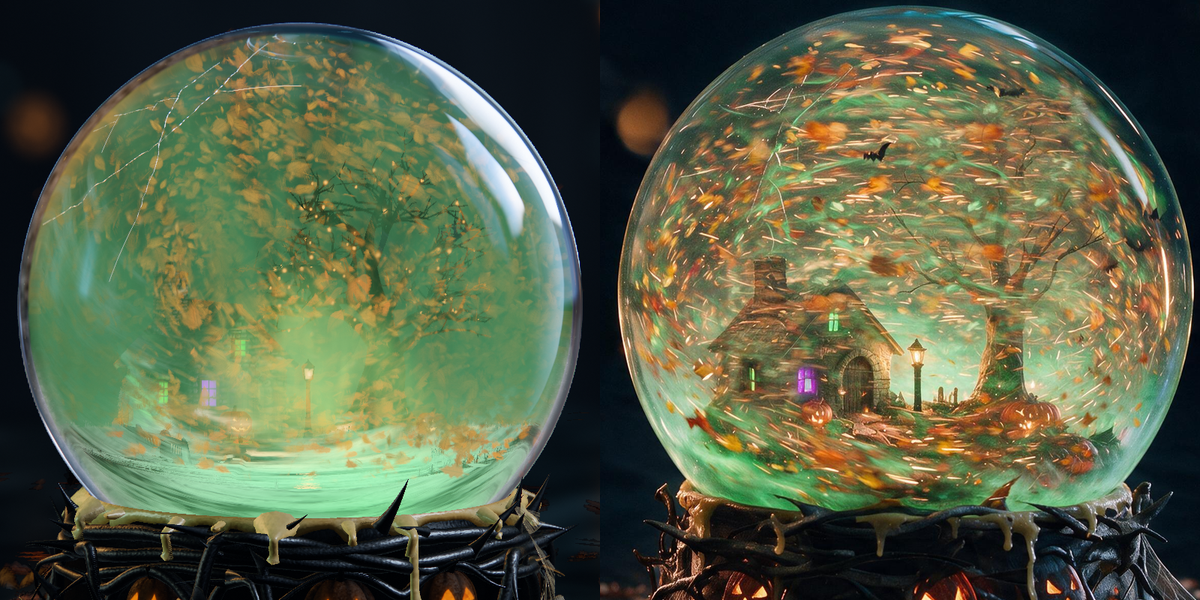
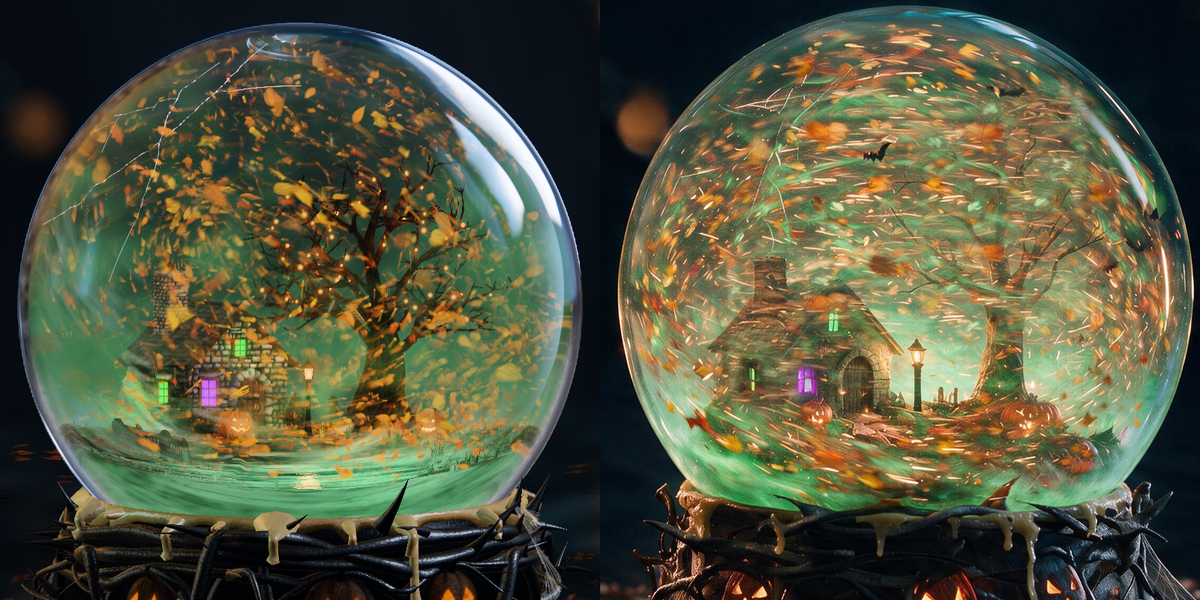
Looks: last pairs of the three seasons, REPORT.md and HANDOVER.md

Changed region(s): [[0.0, 0.06, 0.4933, 1.0], [0.0, 0.87, 0.1233, 1.0], [0.1542, 0.93, 0.2467, 1.0]]

diff --git a/HANDOVER.md b/HANDOVER.md
@@ -1,0 +1,118 @@
+# Handover: the seven particle kinds of spring, summer and fall (`kinds_builder`, Phase 4)
+
+Written for someone who has never seen this work. Branch `agent/p4-kinds`; looks branch `agent/p4-kinds-looks`.
+
+## What this part is
+
+Seven particle kinds drawn in the particle shader: `petal`, `mote` (spring), `seed`, `firefly`, `mote` (summer), `leaf`, `ember`, `bat`, `mote` (fall). Parts in the register: `particle-petal`, `particle-mote`, `particle-firefly`, `particle-seed`, `particle-leaf`, `particle-ember`, `particle-bat`. All seven are real (`real: true` in `LOOKS`); there is no stand-in and no fallback (no crossed cards with a generated picture were needed).
+
+There is no table and no sheet: every shape is worked out in the shader. So there is **no `npm run make -- kinds` target** and no `assets-src/kinds/`. Nothing of mine has to be made before `npm run texpack && npm run build`.
+
+## My files
+
+- `src/particles/draw/cards.ts` (new): all GLSL of the seven kinds. Four strings: `CARD_VERT_PARS`, `CARD_VERT`, `CARD_FRAG_PARS` (holds `cardMain`).
+- `src/particles/draw/looks.ts`: `SHAPE` (petal 3, fleck 4, leaf 5, seed 6, light 7, spark 8, bat 9), the seven rows of `LOOKS`, and the `CARD` constants.
+- `src/particles/draw/shader.ts`: five small hooks only: `vec4 clipC = clip;`, `vec3 base0 = base;`, `${CARD_VERT}` before the last `gl_Position` line, `${CARD_VERT_PARS}`, `${CARD_FRAG_PARS}`, and in the fragment main `if (look.x > 2.5) { cardMain(...); return; }`. Winter's own expressions are not touched.
+- `src/particles/draw/points.ts`: one uniform, `uKindWay[kind] = (renew, floats, settles ? 1 : 0, 0)` from `BEHAVIOUR`.
+- `src/particles/engine/engine.ts`: one change (see "Winter").
+
+Not mine: the rows of `BEHAVIOUR` in `src/particles/engine/kinds.ts` and the colours in `src/seasons/<season>/veil.ts` belong to `spring_air`, `summer_air`, `fall_air`. Counts are in the config.
+
+## How a kind is drawn
+
+Everything for shapes above 2.5 happens in one block at the end of the vertex stage (`CARD_VERT`), which writes every output again, and in `cardMain` in the fragment stage. Flakes and glitter never enter either.
+
+- A card has three axes (along U, across V, out of the sheet N), turned by a yaw from the particle's hash and rocked by its phase `aData.w`. Only whole multiples of the phase are used, because the engine wraps it at 2 pi. Lying (`aState` 1 to 2), the rocking goes to a small tilt (`lieTilt`).
+- The fragment stage solves the pixel back onto the card (`cardSolve`, two steps for the bend), reads an outline with an analytic edge (`cardEdge`), and blurs along the path through the shutter with four taps plus a sharp head (`CARD.head`).
+- petal: notched outline, cupped (`petalCup`), pale to white along its length, light let through by `flash`.
+- mote (fleck): a small lobed speck, drawn in classes of visibility (`fleckKeep`, `fleckSkew`): few bright, most faint.
+- leaf: lobed outline with a stem, midrib and side veins, curled (`leafCurl`), spins about its midrib; orange to rust by a hash over the season's colour.
+- seed: not a card but lines: stem, grain, three rings of hairs (`CARD.hair.ringA/B/C` = count, opening angle, length), 34 lines.
+- firefly (light) and ember (spark): `cardGlow`, a core and halos as gaussians along the path, added light. Ember colour runs hot to the season's colour to dark red by its life (`phase / 2 pi`); firefly blinks by its phase.
+- bat: a facing card, head up, leaning the way it goes (`batLean`, `batBank`), scalloped wings that beat by shifting the outline with the phase (`batFlap`), a lighter rim (`batRim`).
+
+## The classes (the one idea a successor must know)
+
+Config counts are large (24000 petals, 16000 leaves, 9000 seeds). Drawn all whole they wall the storm and carpet the ground. So for kinds that settle and stay (petal, leaf, seed):
+
+- **whole**: the particle is in the engine's `renew` or `floats` class. The shader repeats the engine's own test: `hash2(i, 191 + kindIndex) < max(renew, floats)` (`cardHash2` is a GLSL copy of `hash2` in `src/core/rng.ts`). Plus a small chosen share that lies for good: `CARD.chosen` = [petal 0.004, others 0.012].
+- **storm share**: `CARD.dabShare` = [petal 0.2, leaf 0.3, seed 0.6] of the rest are small (`dabSize` 0.36) and seen only while the storm blows; they are gone once down. For seeds these draw as fine streaks only.
+- the rest are not drawn.
+
+So the number afloat at rest is set by the row (`renew`, `renewMmS`, `floats`, `dwellSeconds`), not by me. If an air builder changes `renew`, the picture follows with no change here.
+
+## Winter
+
+Winter's rest and landed stills (`npm run still -- --season winter --state rest|landed --camera hero --tier draft --format hd --force`) were compared byte for byte with stills taken before my first change, after every push: identical every time.
+
+One real finding: `engine.ts` took one number, the slowest stir that lifts anything, as the lowest `liftMmS[0]` of every kind of every season. When summer's seed row went from 18 to 10, winter's rest still changed (3787 pixels). Now it is per season (`MIN_LIFT_IN`), from that season's own kinds, both seasons' during a swap, capped at `LIFT_FLOOR = 18`. The cap is there because winter's own lowest is 40 and it has always run with 18; without the cap winter would change.
+
+## Things that bite
+
+- A GLSL error breaks the particle shader silently: no particles at all. Look at a still after every shader edit.
+- Stills need `npm run texpack && npm run build` first; `dist/` must match the source or the still tool stops.
+- Never run a still while vitest's heaviest tests run if you time things; the result is still the same bytes, only slower.
+- `main` now carries built assets of all seasons; before a merge run `git checkout -- assets-full public/assets` and `git clean -fdq assets-full public/assets`.
+- To see particles on the air builders' newest rows before they reach `main`, lay their `kinds.ts` rows and `veil.ts` over the tree, look, and `git checkout` them again before committing.
+
+## Constants a successor should know (`CARD` in `src/particles/draw/looks.ts`)
+
+| Constant | Value | What it does |
+|---|---|---|
+| `LOOKS.<kind>.size` | petal 1, mote 1.2, leaf 1.35, seed 3.6, firefly 1, ember 1.3, bat 1.15 | Drawn radius as a multiple of the row's `sizeMm`. Seed 3.6 is agreed with `summer_air` (its row is `[2.5, 5] / 3.6`): do not change one without the other |
+| `chosen` | [0.004, 0.012] | Share that lies for good: petal, others. `spring_air` asked for the low petal number so the pond's mirror shows |
+| `dabShare` | [0.2, 0.12, 0.6] | Storm share of the rest: petal, leaf, seed |
+| `dabSize`, `stormSize` | 0.36, [0.45, 0.45] | Size of a storm-share card; size of a whole petal and leaf while the storm blows |
+| `head` | 0.85 | How sharp a moving card is at the head of its trail |
+| `fog`, `batFog` | 0.3, 0.08 | How much of the season's veil lies over a card in the air, over a bat |
+| `leafHue` | 0.15 | How much of the light's colour a leaf takes (low, so it stays orange in fall's green light) |
+| `litMost` | 1.25 | Cap on the light a card takes from the grid |
+| `fleckKeep`, `fleckSkew`, `fleckStorm` | [0.01, 0.5], 8, 3 | Motes: most are faint, more show in the storm |
+| `sparkKeep`, `sparkSkew`, `spark.gain` | [0.02, 1], 4, 1 | Embers: tuned to `fall_air`'s row (`sizeMm [0.12, 0.7]`, skew 4, glow 1.3). With a brighter row they become a white cloud over the tree; then lower `gain` |
+| `glow` | core 0.34, halo 1.5, wide 4.5, shares 0.1 and 0.01 | Firefly; tuned to `summer_air`'s row (`sizeMm [0.22, 0.5]`, glow 3) |
+| `hair` | 34 hairs, `wide` 0.011, `runStretch` 2, `runSeen` 1.6 | Seed head; the `run*` numbers are the storm streaks |
+| `batLean`, `batBank`, `batFlap`, `batRim` | 0.5, 0.3, 0.45, 1.5 | Bat. `batRim` 0.6 made them vanish on the dark air at rest; 1.5 shows them but slate, not black |
+
+## What is still wrong, worst first (pictures are on the looks branch)
+
+0. **Embers against the wrong row** (`fall-rest-hero-pair.png`, rendered at my last commit on `main`'s rows as of 192ccf3): a pale glowing cloud over the tree. `main` then still had `fall_air`'s older ember row (glow 3.2, `sizeMm [0.2, 1.0]`, skew 3); my numbers (`spark.gain` 1, `LOOKS.ember.size` 1.3, `sparkKeep [0.02, 1]`, `sparkSkew` 4) are tuned to its newer row at `agent/p4-fall_air` 8e4829f (glow 1.3, `sizeMm [0.12, 0.7]`, skew 4), with which I saw a scatter of orange sparks round the tree and no cloud. First thing to do: render fall at rest on the current `main`; if the cloud is there, check which ember row `main` has, and if the brighter one stays, set `spark.gain` to about 0.4 and `sparkSkew` to 9.
+1. **Fall storm** (`fall-landed-hero-pair.png`): leaves are soft orange shapes; the approved has many long thin bright streaks and red leaves among the orange, and three crisp black bats. Ours has no thin streak class for leaves (seeds have one: copy `runLong` in `cardSeed` for the leaf's storm share) and the bats do not show in the storm.
+2. **Bats at rest** (`fall-rest-hero-pair.png`): they face the picture and beat, but read slate and translucent, and sit in one clump under the cap where the sky is dark. The approved has three crisp black ones lower, against the lit haze. Their place is the row's (`reachMm`, height in the engine's `nest()`); their translucency is the lens blur on a small card near the glass (`amp` in `cardCover`): try a floor on `amp` for the bat.
+3. **Summer storm** (`summer-landed-hero-pair.png`): streaks are there through the globe but the whole seed stars are larger and flatter than the approved's, and the fireflies are lost in the storm.
+4. **Summer rest** (`summer-rest-hero-pair.png`): fewer seeds than the approved, all of one brightness; fireflies smaller than the approved's; no large soft ones near the glass (no kind has a near, out-of-focus class like winter's bokeh flakes).
+5. **Spring storm** (`spring-landed-hero-pair.png`): close in kind; petals still a little larger and more uniform than the approved's fine dabs, and no fine white streak lines.
+6. **Spring rest** (`spring-rest-hero-pair.png`): petals a little large; the notch at a petal's tip does not read at this size.
+7. Leaves: the veins and lobes are in the shader but do not read at hero size; only the macro camera would show them, and I did not look at a macro still. Not seen: the live (instanced quad) path in a browser, any macro still, any still at a tier above draft.
+
+## Tried and dropped
+
+- Every particle whole: a pink wall in spring's storm and a carpet on the ground. Hence the classes.
+- Embers with every one drawn at full light: one white column, later a white cloud. Hence the skewed keep.
+- Bat as a card flying along its 3D path with a share turned to the eye (`batFace`): from the hero camera, level with them, they were edge-on slivers, then tall zigzags. Now a facing card.
+- Seed stars drawn whole in the storm with three taps along the path: thick-armed still stars. Now a head plus a trail, and streak-only for the storm share.
+- A lower `seed` size factor (1.5) while `summer_air` cut its row at the same time: we crossed twice. Settled: factor 3.6 stays, the row carries the size.
+- Same crossing with `fall_air` on ember brightness. Settled: its row is fixed (glow 1.3), my `spark.gain` is the knob.
+
+## `ASSETS.md` rows
+
+None: this part has no generated image, no built asset and no third-party source. All shapes are code in `src/particles/draw/cards.ts`.
+
+## Make targets
+
+Mine: none. On `main` at my last merge the targets with a script are: `base-fall base-spring base-summer base-winter flakes frost-winter scene slab-fall slab-spring tree-fall tree-spring tree-summer tree-winter trunk village village-fall village-spring village-summer village-winter`. Order that matters: `trunk` before any `tree-<season>`; then `npm run texpack`, then `npm run build`. Since `main` carries the built assets of every season, a fresh clone needs only `npm run texpack && npm run build`.
+
+## Tests at the last commit (93f789c), what ran and what it printed
+
+- `npx tsc --noEmit`: clean.
+- `npx vitest run`: `Test Files 32 passed | 1 skipped (33)`, `Tests 432 passed | 4 skipped (436)`.
+- Winter rest and landed hero stills at draft, hd: byte-identical with the stills taken before my first change (`cmp`).
+- `npm run determinism`: `identical: still-settled, pass d against pass a`, then `determinism: pass · 3 pictures, 4 page loads, preview, draft, 320 s`.
+- Stand-ins view (`--diag standins`, rest, hero, draft, hd) for spring, summer and fall: every pixel of all three pictures is black (counted, 0 of 2073600 pixels above black), so no stand-in shows in any of the three seasons, mine included.
+- `npm run measure -- --unit spring --only M3,M4,M5,M6 --tier draft` (142 s): `measure spring: not complete · 7 of 19 lines, 1 red`. M6 passes on all six lines (`spring-rest` 0, `spring-shake` 0.000186 = 19 of 102000 particles inside a solid, threshold 0.002; the other four 0). The one red is `FAIL M3 spring-rest: 0.6769 (threshold 0.75)`, and its text names the base (`base 0.677`; `miniature 0.928`): it is the spring base's sharpness, not a particle measure. The tool printed `M4 is not measured for the unit spring` and the same for M5.
+- **Not run**: `npm run measure` for the units `summer` and `fall` (each takes about two and a half minutes and my last push was due). A successor should run both first: `npm run measure -- --unit summer --only M3,M4,M5,M6 --tier draft` and the same with `fall`. Watch M6 in `fall-shake` and `summer-shake` (particles inside a solid) most.
+
+## Looks
+
+62 pictures looked at in all, each as a pair with the approved crop at hd (helper: crop both to the box 560,60 to 1360,860 of the hd frame and set them side by side): spring 24, summer 13, fall 25. Each season's count stands against every kind of that season; all under 40.
+
+The pictures on the looks branch were rendered with the air builders' newest rows and colours laid over the tree (their branches at that minute), which may be ahead of `main`.

diff --git a/REPORT.md b/REPORT.md
@@ -1,0 +1,28 @@
+# Report: `kinds_builder`, the seven particle kinds of spring, summer and fall (Phase 4)
+
+- Branch `agent/p4-kinds`, last commit 93f789c (main 192ccf3 merged in). Looks branch `agent/p4-kinds-looks`.
+- Stand-ins or fallbacks left: none. All seven kinds (`petal`, `mote`, `seed`, `firefly`, `leaf`, `ember`, `bat`) are real shapes worked out in the shader; no crossed-card fallback was needed.
+## Still wrong, worst first (full list with pictures in `HANDOVER.md`)
+0. MERGE ORDER: my ember numbers are tuned to `fall_air`'s ember row at its 8e4829f (glow 1.3, `sizeMm [0.12, 0.7]`, skew 4). On main's row at 192ccf3 (glow 3.2, `[0.2, 1.0]`) the embers at rest are a pale cloud over the tree (`fall-rest-hero-pair.png`, seen 02:50). With 8e4829f's row they are a scatter of orange sparks (seen 02:33). Merge both, or set `CARD.spark.gain` 1 -> 0.4.
+1. Fall storm: leaves are soft orange shapes; the approved has long thin bright streaks, red among the orange, and crisp black bats. No thin streak class for leaves yet; bats do not show in the storm.
+2. Bats at rest: they face the picture and beat, but read slate and faint, in one clump under the dark cap.
+3. Summer storm: whole seed stars larger and flatter than the approved's; fireflies lost in the storm.
+4. Summer rest: fewer seeds than the approved, one brightness; no large soft near ones (no kind has a near, out-of-focus class).
+5. Spring storm and rest: close in kind; petals a little large and uniform, no fine white streak lines, the notch does not read.
+6. Not seen at all: any macro still, the live (instanced quad) path in a browser, any tier above draft. Veins and lobes of the leaf are in the shader but unseen at hero size.
+## What was built
+- `src/particles/draw/cards.ts` (new) and rows and constants in `looks.ts`; five hooks in `shader.ts`; one uniform in `points.ts`.
+- Each kind is a turned card with thickness (seed: 34 hair lines; firefly, ember: added light; bat: facing card with beating wings), lit by the season's light grid, blurred by lens and shutter, lying in a lying pose.
+- Classes: whole = the engine's `renew`/`floats` class (same hash as the engine) plus a small chosen share; a storm share that is gone once down; the rest not drawn. The number afloat is set by the air builders' rows.
+- `engine.ts`: the slowest stir that lifts anything is now per season (`MIN_LIFT_IN`, capped at `LIFT_FLOOR = 18`). Before, summer's seed row changed winter's rest still (3787 pixels); found by the byte comparison, fixed on `/root`'s word.
+
+- Winter: rest and landed hero stills byte-identical with the stills taken before my first change, after every push and at 93f789c.
+## Make targets
+Mine: none (no `assets-src/kinds/`). A clone of `main` needs only `npm run texpack && npm run build`; to remake, `trunk` before `tree-<season>`.
+## Tests run at 93f789c and what they printed
+- `npx tsc --noEmit`: clean.
+- `npx vitest run`: `Test Files 32 passed | 1 skipped (33)`, `Tests 432 passed | 4 skipped (436)`.
+- `npm run determinism`: `determinism: pass · 3 pictures, 4 page loads, preview, draft, 320 s`.
+- Stand-ins view, rest, three seasons: all black (0 pixels lit). `npm run measure` spring: M6 passes on 6 lines; 1 red, M3 `spring-rest` 0.677 under 0.75, which is the base's sharpness. Measures for summer and fall were NOT run (no time).
+## Looks used
+62 pictures looked at in all, each a pair with the approved crop at hd: spring 24, summer 13, fall 25 (under 40 for every part).
